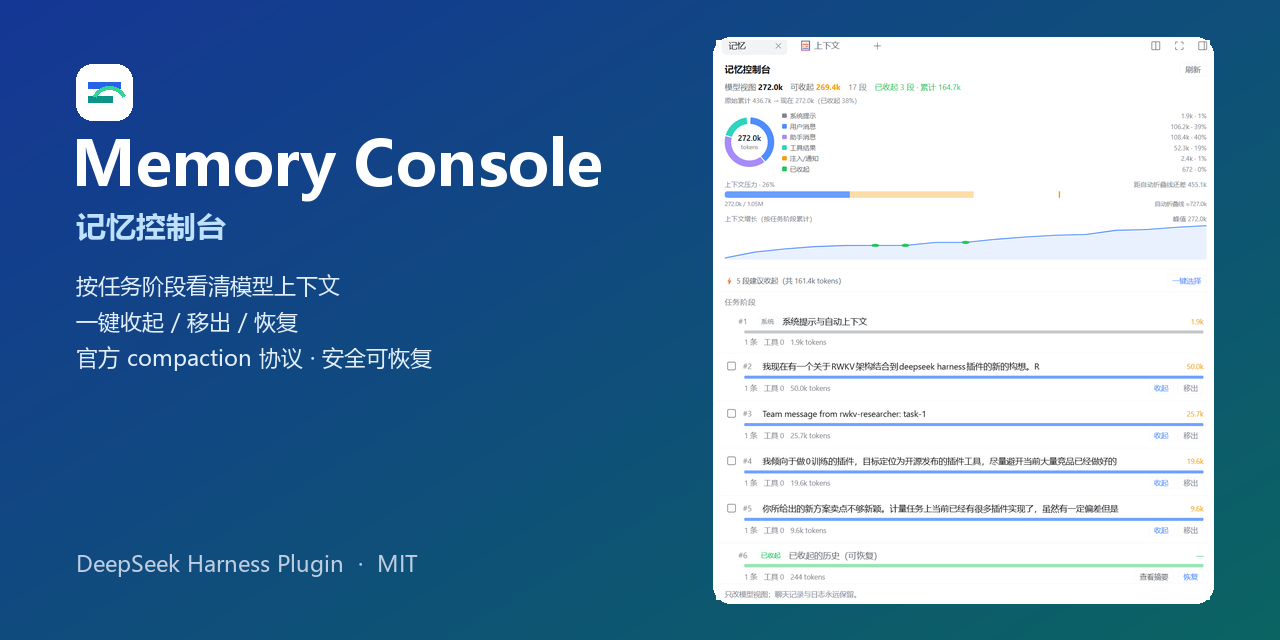
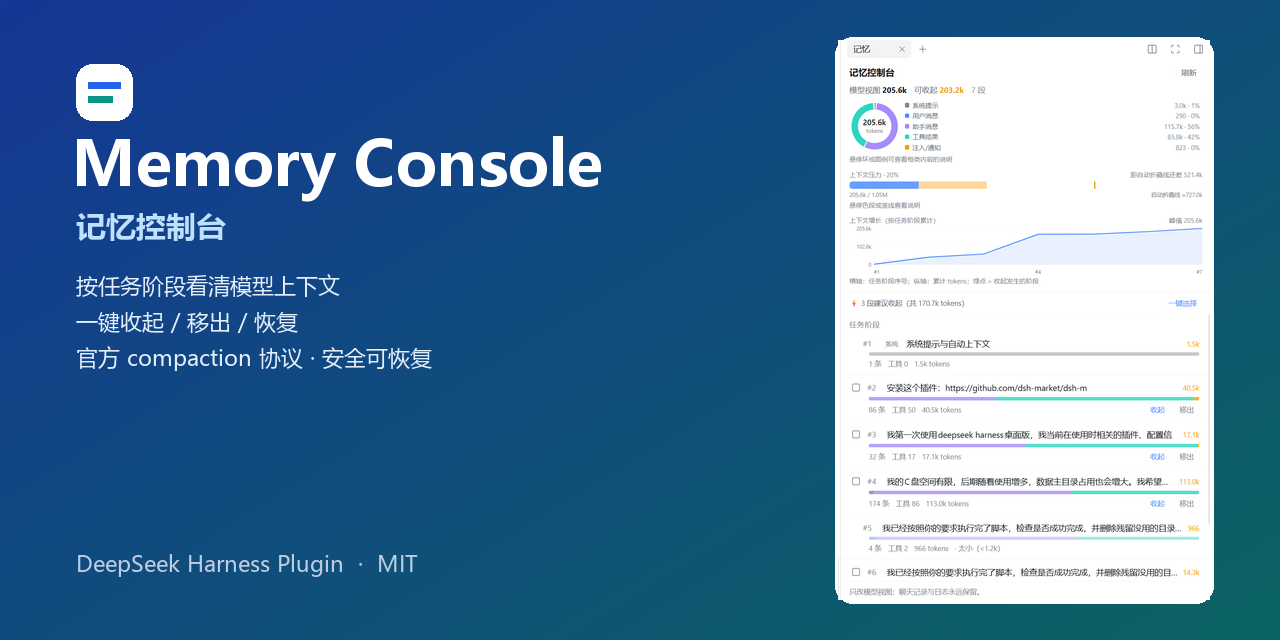
docs: 更新截图与统一版式（面板/记忆中心/批量收起/收起流程），重生成社交预览

diff --git a/README.md b/README.md
@@ -35,8 +35,9 @@
 ### 右侧栏「记忆」面板
 
 <p align="center">
-  <img src="assets/screenshots/panel.png" alt="记忆面板" width="460" />
+  <img src="assets/screenshots/panel.png" alt="记忆面板" width="420" />
 </p>
+<p align="center"><sub>右侧栏面板：构成环、上下文压力、增长曲线与建议队列</sub></p>
 
 - **任务阶段**：按真实的人类任务切分。系统注入、技能目录、编队/子代理通知会自动归组，不再是一堆看不懂的碎片；
 - **构成环**：系统提示 / 用户消息 / 助手消息 / 工具结果 / 注入通知 / 已收起 六类占比，悬停联动图例与说明；
@@ -51,21 +52,33 @@
 <p align="center">
   <img src="assets/screenshots/memory-center.png" alt="记忆中心" width="880" />
 </p>
+<p align="center"><sub>全屏记忆中心：左侧主会话列表，右侧同一套记忆控制台</sub></p>
 
 - 左侧：主会话列表（打开中的可直接管理，历史会话只读）；
 - 右侧：同一套记忆控制台，适合跨会话盘点；
 - 子代理/编队会话默认隐藏，避免一次团队任务刷出几十条。
 
-### 收起前先预览、收起后能恢复
+### 批量收起
 
 <p align="center">
-  <img src="assets/screenshots/confirm.png" alt="收起预览" width="420" />
-  &nbsp;&nbsp;
-  <img src="assets/screenshots/folded.png" alt="已收起" width="420" />
+  <img src="assets/screenshots/batch.png" alt="批量收起" width="420" />
 </p>
+<p align="center"><sub>勾选多个任务阶段，一次确认、逐段独立收起</sub></p>
 
-预览里会给出：**这一段多大、收起后模型看到什么摘要、省多少 token**。
-已收起的阶段在聊天里显示为官方的"上下文已压缩"折叠行，在面板里可以「查看摘要」和「恢复」。
+- 勾选后可看到「已选 N 段 · 合计 X tokens」；
+- 确认后每段各自写一次官方 compaction 事务，互不影响；
+- 每段都能单独恢复。
+
+### 收起之后：折叠行、摘要与恢复
+
+<p align="center">
+  <img src="assets/screenshots/fold-flow.png" alt="收起结果与摘要" width="420" />
+</p>
+<p align="center"><sub>收起后聊天里出现官方“上下文已压缩”折叠行；面板里可展开摘要、随时恢复原文</sub></p>
+
+- 收起前会预览：**这一段多大、模型将看到什么摘要、省多少 token**；
+- 收起后阶段标记为「已收起」，可查看摘要或一键恢复；
+- 原文始终保留在会话日志，恢复后上下文会重新变大。
 
 ---
 
